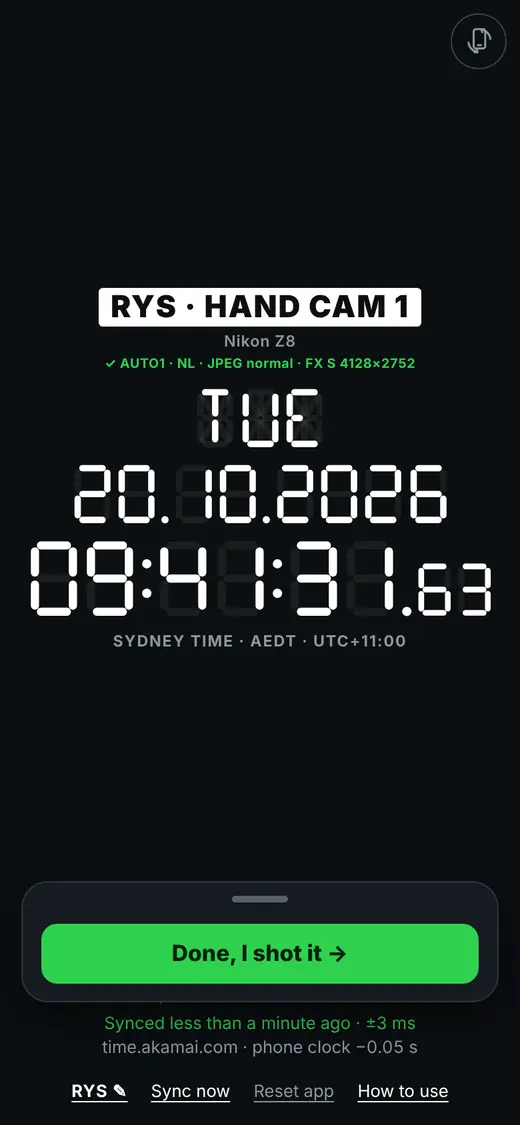
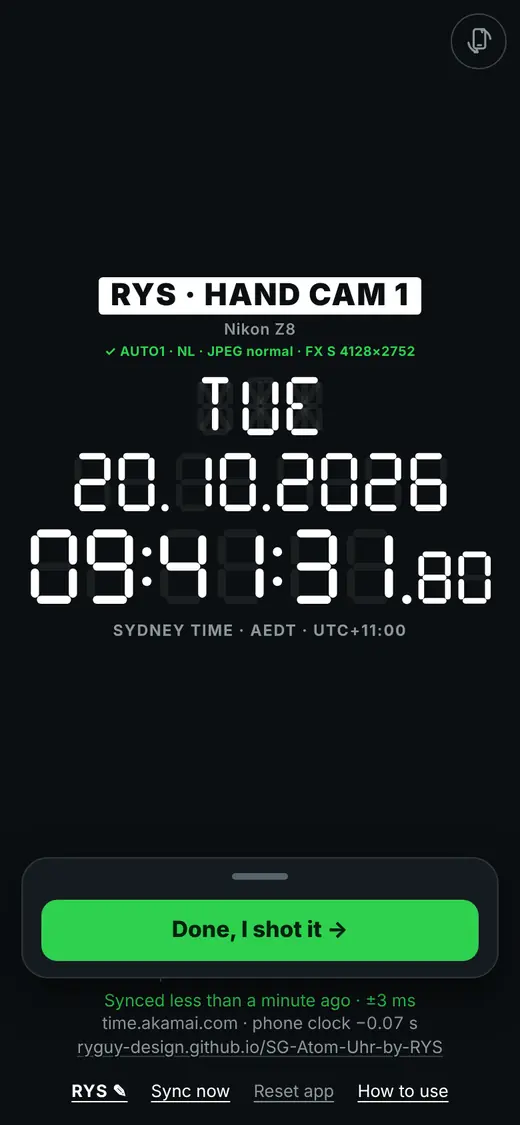
Show the app's web address under the time-server line (tap to open, hold to copy)
Claude-Session: https://claude.ai/code/session_01JznZzYxsbG1MxddMkXcSY2

Changed region(s): [[0.0615, 0.2489, 0.9538, 0.5911], [0.0615, 0.7467, 0.9231, 0.9644]]

diff --git a/index.html b/index.html
@@ -104,6 +104,9 @@ body.photo .showhint{display:block}
 .ok #syncText{color:var(--ok)}
 .bad #syncText{color:var(--warn)}
 #detail{font-variant-numeric:tabular-nums}
+/* The app's web address: tap to open, press and hold to copy or share */
+.applink{color:inherit; font-size:inherit; text-decoration:underline; text-decoration-color:rgba(255,255,255,.18); text-underline-offset:2px; overflow-wrap:anywhere;
+  -webkit-user-select:text; user-select:text; -webkit-touch-callout:default}
 .controls{display:flex; align-items:center; gap:1.1rem; flex-shrink:0}
 .controls button{font:inherit; color:var(--fg); background:none; border:0; padding:.3rem 0; text-decoration:underline; text-underline-offset:3px; cursor:pointer}
 .guidebtn{font-weight:700}
@@ -402,7 +405,7 @@ html.land footer{flex-wrap:nowrap; align-items:center; gap:.9rem}
 html.land .cam{width:auto; flex:1 1 auto; min-width:0; max-width:55%}
 html.land #status{flex:1; min-width:0}
 html.land #syncText{white-space:nowrap; overflow:hidden; text-overflow:ellipsis}
-html.land #detail{display:none}
+html.land #detail,html.land .applink{display:none}
 html.narrow footer{flex-direction:column; align-items:center; text-align:center}
 html.narrow #status{align-items:center}
 /* Rotate button: turns the whole app 90°, works even with the phone's rotation lock on */
@@ -498,6 +501,7 @@ footer,.taphint{transition:opacity .3s var(--ease)}
   <div id="status">
     <span id="syncText">Syncing with time server…</span>
     <span id="detail"></span>
+    <a id="appLink" class="applink" href="https://ryguy-design.github.io/SG-Atom-Uhr-by-RYS/" target="_blank" rel="noopener">ryguy-design.github.io/SG-Atom-Uhr-by-RYS</a>
   </div>
   <div class="controls">
     <button id="initBtn" class="initbtn" type="button" aria-label="Edit your initials"></button>
@@ -580,17 +584,17 @@ footer,.taphint{transition:opacity .3s var(--ease)}
 <div id="guide" class="viewer guide" hidden role="dialog" aria-modal="true" aria-labelledby="gTitle">
   <div class="view-top g-top"><b id="gTitle">How to use</b><button id="gClose" class="g-close" type="button" aria-label="Close the guide">✕</button></div>
   <ol class="g-list">
-    <li class="g-step"><div class="g-num">1</div><div class="g-body"><b>Add your first camera</b><p>Tap <b>+ 📷</b> at the bottom of the clock screen.</p><img src="guide/1.webp?v=1" alt="" loading="lazy" width="390" height="844"></div></li>
-    <li class="g-step"><div class="g-num">2</div><div class="g-body"><b>Enter your initials</b><p>Only the first time. They go on every camera label and photo name. Change them later with your initials at the bottom of the screen.</p><img src="guide/2.webp?v=1" alt="" loading="lazy" width="390" height="844"></div></li>
-    <li class="g-step"><div class="g-num">3</div><div class="g-body"><b>Pick the camera</b><p>Choose <b>Hand cam</b> or <b>LS</b> at the top, then tap the brand and the model. Your recent cameras show at the top for one-tap picks.</p><img src="guide/3.webp?v=1" alt="" loading="lazy" width="390" height="844"></div></li>
-    <li class="g-step"><div class="g-num">4</div><div class="g-body"><b>Set the 4 settings</b><p>Set each setting on your camera and tick it. Every tick has to be tapped. Then tap <b>Continue: shoot the clock →</b>.</p><img src="guide/4.webp?v=1" alt="" loading="lazy" width="390" height="844"></div></li>
-    <li class="g-step"><div class="g-num">5</div><div class="g-body"><b>Shoot the clock</b><p>Point your camera at the clock and take a shot. Then tap <b>Done, I shot it →</b> in the box at the bottom.</p><img src="guide/5.webp?v=1" alt="" loading="lazy" width="390" height="844"></div></li>
-    <li class="g-step"><div class="g-num">6</div><div class="g-body"><b>The camera box</b><p>Drag its line up for more: the middle height shows your cameras, the progress line and ✎ 🗑 ✕. All the way up shows the instructions and ← Back links. Drag it down or tap ✕ to make it small again. The green button always stays on show.</p><img src="guide/6.webp?v=1" alt="" loading="lazy" width="390" height="844"></div></li>
-    <li class="g-step"><div class="g-num">7</div><div class="g-body"><b>Photograph the camera's screen</b><p>On the camera, play back the shot of the clock with its <b>time showing</b>. Tap <b>📷 Take photo</b>, fill the frame with the camera's screen and press the shutter.</p><img src="guide/7.webp?v=1" alt="" loading="lazy" width="390" height="844"></div></li>
-    <li class="g-step"><div class="g-num">8</div><div class="g-body"><b>Check: same second?</b><p>The app reads the clock in the shot and the camera's own time and tells you <b>In sync ✓</b> or how many seconds it's off. Zoom in to check by eye. In sync: tap <b>✓ Yes, in sync</b>. Not in sync: fix the camera's clock, shoot the clock again and <b>Retake</b>.</p><img src="guide/8.webp?v=1" alt="" loading="lazy" width="390" height="844"></div></li>
-    <li class="g-step"><div class="g-num">9</div><div class="g-body"><b>Next camera or add one</b><p>Tap <b>Next camera →</b> for the next one in your list. Tap <b>+ 📷</b> next to the green button to add another hand cam or LS.</p><img src="guide/9.webp?v=1" alt="" loading="lazy" width="390" height="844"></div></li>
-    <li class="g-step"><div class="g-num">10</div><div class="g-body"><b>Send the photos</b><p>When every camera has its photo, tap <b>Send photos →</b>. Look over the list (tap one to see it again), then tap <b>Send</b> and pick your group chat. Sending is locked until every camera has a photo; a red tile takes you to the one that's missing.</p><img src="guide/10.webp?v=1" alt="" loading="lazy" width="390" height="844"></div></li>
-    <li class="g-step"><div class="g-num">11</div><div class="g-body"><b>Change, delete or switch cameras</b><p>In the middle height of the box: tap a camera to switch to it, tap it again (or ✎) to change its check, 🗑 twice to delete it, + to add one.</p><img src="guide/11.webp?v=1" alt="" loading="lazy" width="390" height="844"></div></li>
+    <li class="g-step"><div class="g-num">1</div><div class="g-body"><b>Add your first camera</b><p>Tap <b>+ 📷</b> at the bottom of the clock screen.</p><img src="guide/1.webp?v=2" alt="" loading="lazy" width="390" height="844"></div></li>
+    <li class="g-step"><div class="g-num">2</div><div class="g-body"><b>Enter your initials</b><p>Only the first time. They go on every camera label and photo name. Change them later with your initials at the bottom of the screen.</p><img src="guide/2.webp?v=2" alt="" loading="lazy" width="390" height="844"></div></li>
+    <li class="g-step"><div class="g-num">3</div><div class="g-body"><b>Pick the camera</b><p>Choose <b>Hand cam</b> or <b>LS</b> at the top, then tap the brand and the model. Your recent cameras show at the top for one-tap picks.</p><img src="guide/3.webp?v=2" alt="" loading="lazy" width="390" height="844"></div></li>
+    <li class="g-step"><div class="g-num">4</div><div class="g-body"><b>Set the 4 settings</b><p>Set each setting on your camera and tick it. Every tick has to be tapped. Then tap <b>Continue: shoot the clock →</b>.</p><img src="guide/4.webp?v=2" alt="" loading="lazy" width="390" height="844"></div></li>
+    <li class="g-step"><div class="g-num">5</div><div class="g-body"><b>Shoot the clock</b><p>Point your camera at the clock and take a shot. Then tap <b>Done, I shot it →</b> in the box at the bottom.</p><img src="guide/5.webp?v=2" alt="" loading="lazy" width="390" height="844"></div></li>
+    <li class="g-step"><div class="g-num">6</div><div class="g-body"><b>The camera box</b><p>Drag its line up for more: the middle height shows your cameras, the progress line and ✎ 🗑 ✕. All the way up shows the instructions and ← Back links. Drag it down or tap ✕ to make it small again. The green button always stays on show.</p><img src="guide/6.webp?v=2" alt="" loading="lazy" width="390" height="844"></div></li>
+    <li class="g-step"><div class="g-num">7</div><div class="g-body"><b>Photograph the camera's screen</b><p>On the camera, play back the shot of the clock with its <b>time showing</b>. Tap <b>📷 Take photo</b>, fill the frame with the camera's screen and press the shutter.</p><img src="guide/7.webp?v=2" alt="" loading="lazy" width="390" height="844"></div></li>
+    <li class="g-step"><div class="g-num">8</div><div class="g-body"><b>Check: same second?</b><p>The app reads the clock in the shot and the camera's own time and tells you <b>In sync ✓</b> or how many seconds it's off. Zoom in to check by eye. In sync: tap <b>✓ Yes, in sync</b>. Not in sync: fix the camera's clock, shoot the clock again and <b>Retake</b>.</p><img src="guide/8.webp?v=2" alt="" loading="lazy" width="390" height="844"></div></li>
+    <li class="g-step"><div class="g-num">9</div><div class="g-body"><b>Next camera or add one</b><p>Tap <b>Next camera →</b> for the next one in your list. Tap <b>+ 📷</b> next to the green button to add another hand cam or LS.</p><img src="guide/9.webp?v=2" alt="" loading="lazy" width="390" height="844"></div></li>
+    <li class="g-step"><div class="g-num">10</div><div class="g-body"><b>Send the photos</b><p>When every camera has its photo, tap <b>Send photos →</b>. Look over the list (tap one to see it again), then tap <b>Send</b> and pick your group chat. Sending is locked until every camera has a photo; a red tile takes you to the one that's missing.</p><img src="guide/10.webp?v=2" alt="" loading="lazy" width="390" height="844"></div></li>
+    <li class="g-step"><div class="g-num">11</div><div class="g-body"><b>Change, delete or switch cameras</b><p>In the middle height of the box: tap a camera to switch to it, tap it again (or ✎) to change its check, 🗑 twice to delete it, + to add one.</p><img src="guide/11.webp?v=2" alt="" loading="lazy" width="390" height="844"></div></li>
     <li class="g-step"><div class="g-num">i</div><div class="g-body"><b>Good to know</b><p>
       · <b>Sync now</b> re-checks the time server; the line above it shows how far off your phone's own clock is.<br>
       · <b>Tap the clock</b> to hide the buttons for a clean shot; tap again to bring them back.<br>
